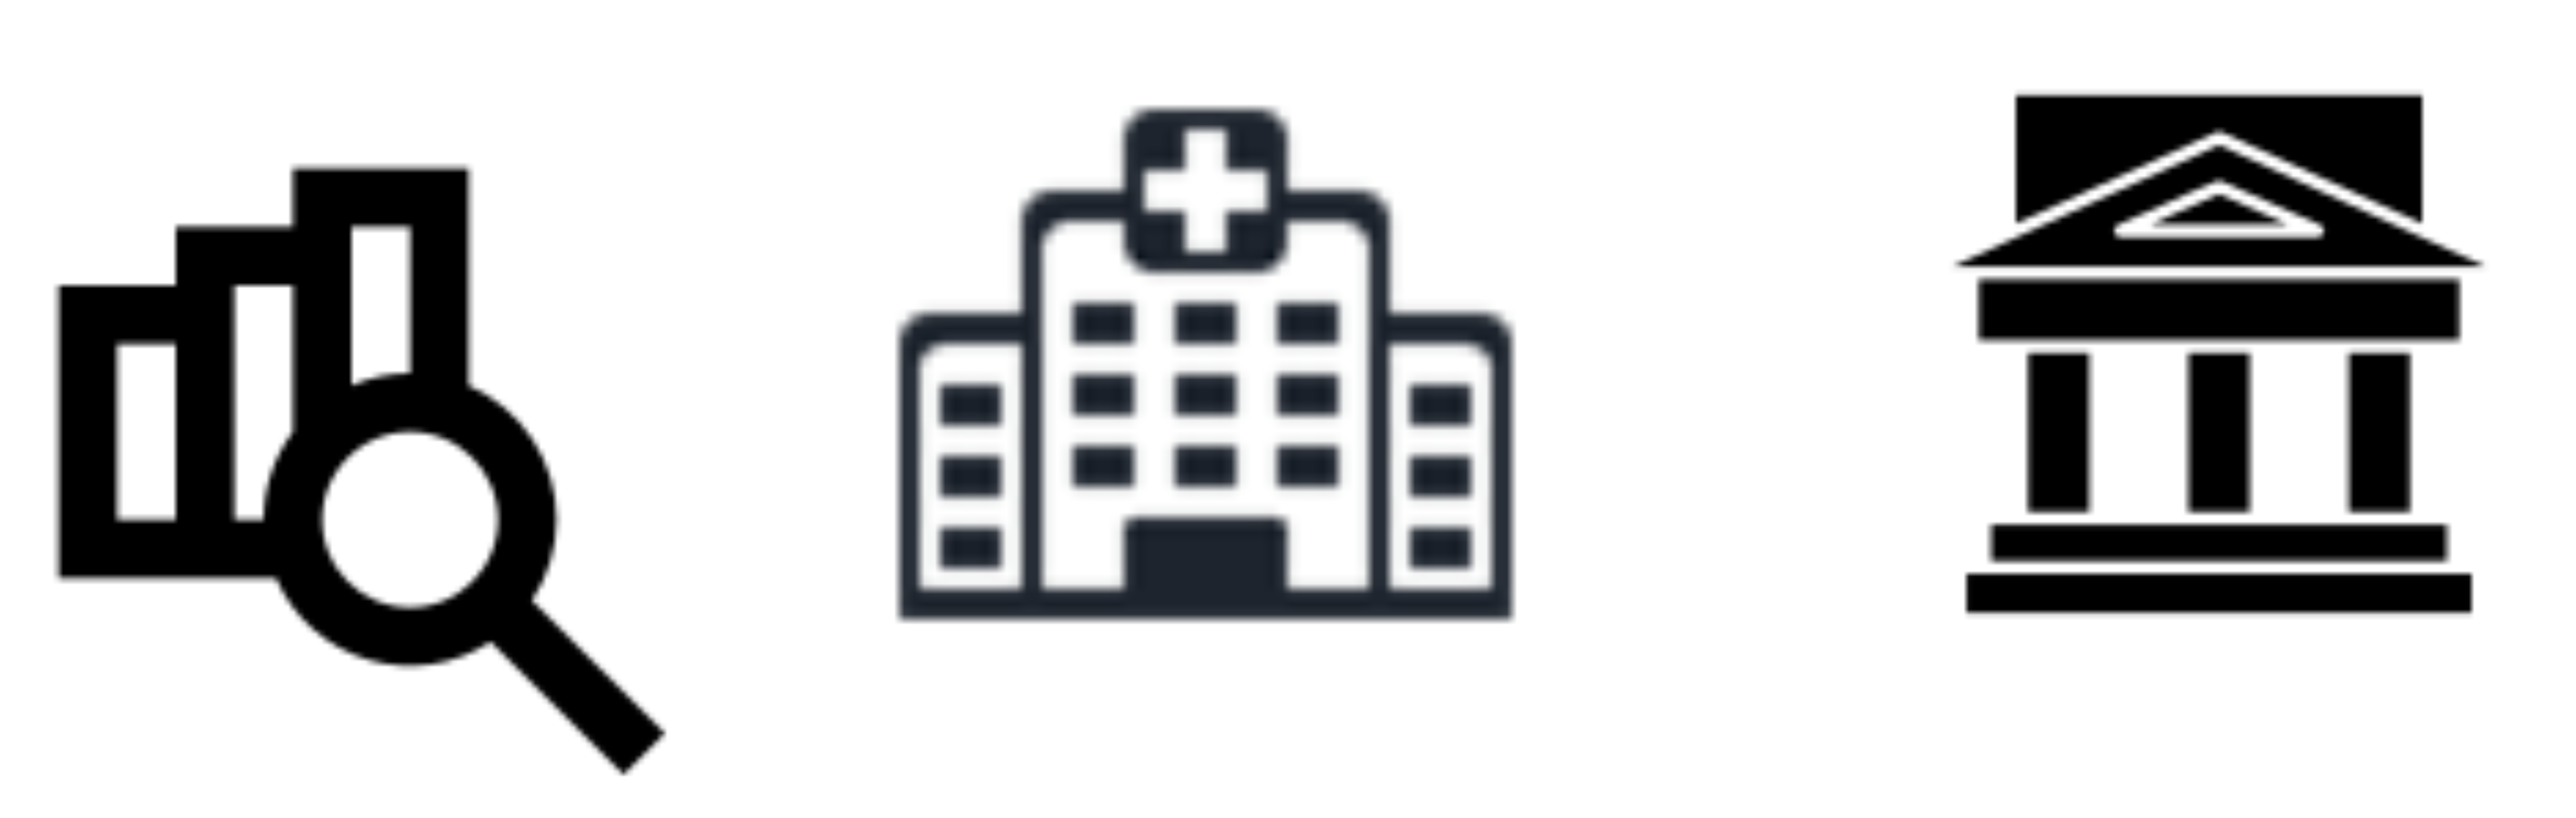
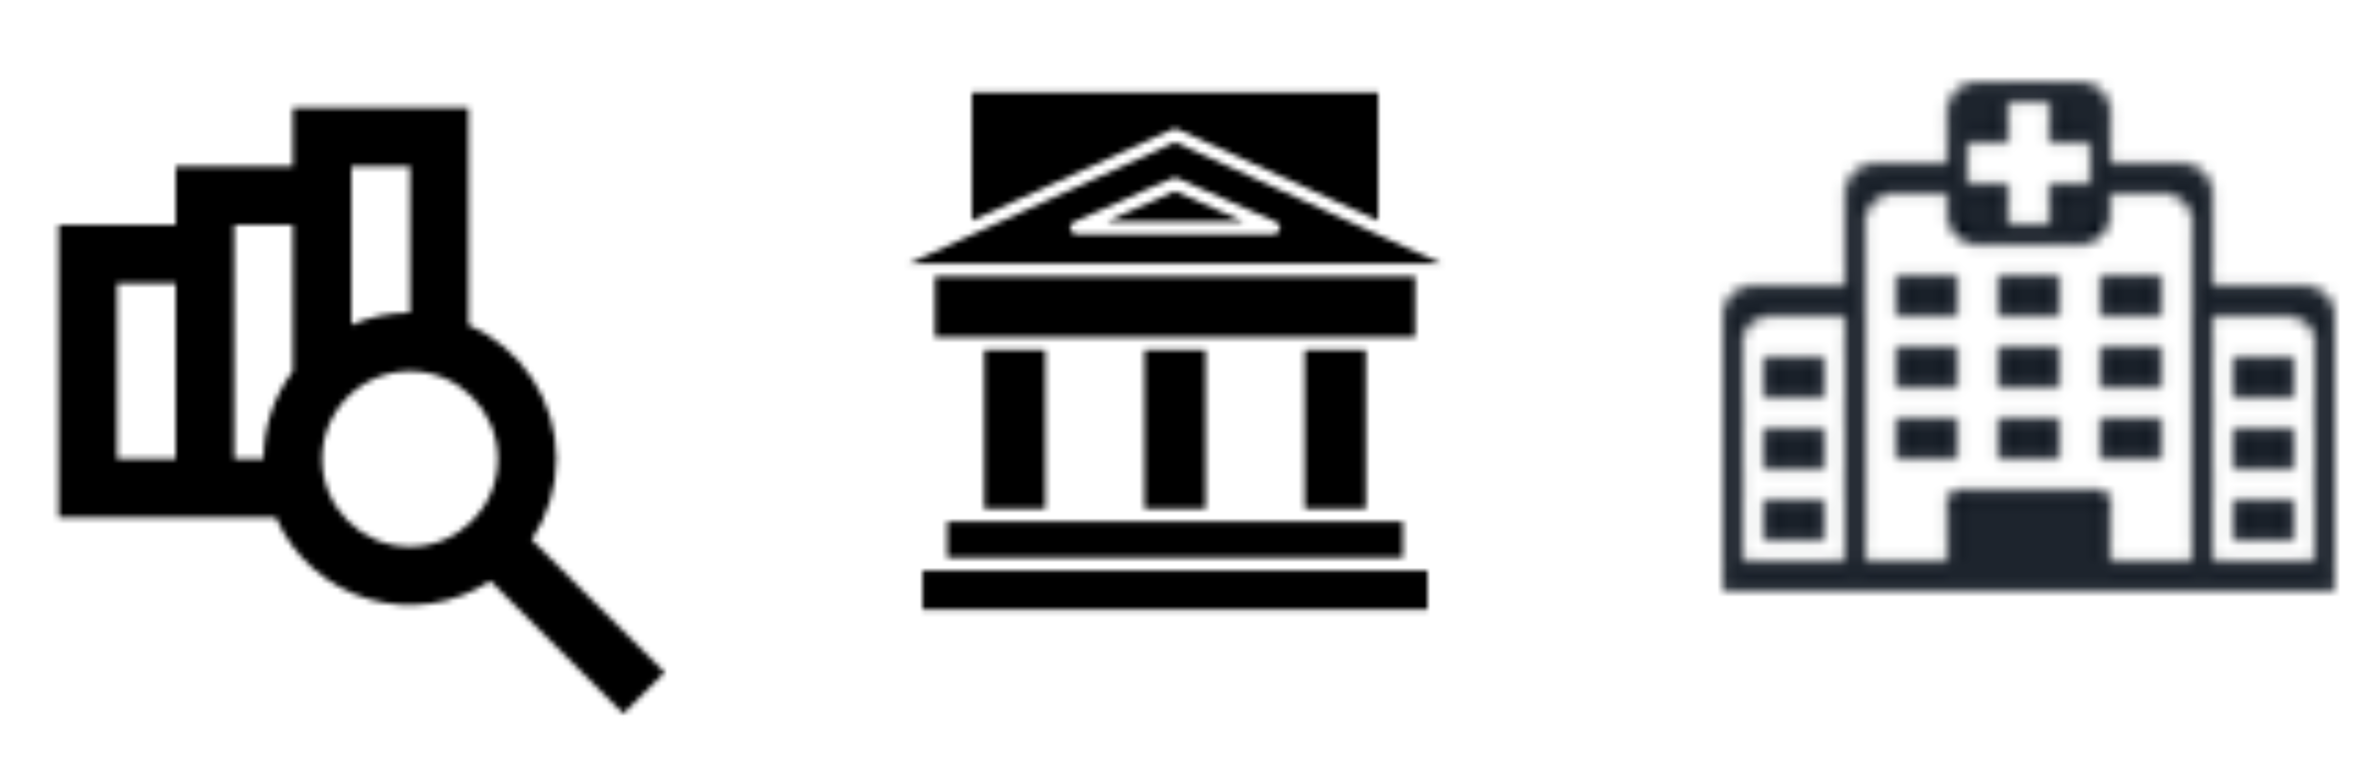
Update app

diff --git a/streamlit_app.py b/streamlit_app.py
@@ -1,8 +1,8 @@
 import streamlit as st
-from apps.app import MedicalVis
+from apps.medical_infrastructure_app import MedicalVis
 # Import here and call accordingly down below
 
-def display_graph(selection="Take me Home!"):
+def display_graph(selection="Introduction"):
 
     if "menu" in st.session_state:
         selection = st.session_state.menu
@@ -16,16 +16,22 @@ def display_graph(selection="Take me Home!"):
         MedicalVis()
 
     elif selection == "Introduction" or selection == "Select One":
-        st.write("Introduction")
+        text = "<h1 style='text-align: center; color: #7f32a8;'>COVID-19 Dashboard<h1>"
+        st.write(text, unsafe_allow_html=True)
 
 
 if __name__=="__main__":
-    st.sidebar.image("images/panel_black.png", use_column_width=True, output_format="PNG")
 
+    with st.sidebar:
+        text = "<h1 align='center'>Navigation Panel</h1>"
+        st.write(text, unsafe_allow_html=True)
+    st.sidebar.image("images/panel_black.png", use_column_width=True, output_format="PNG")
     selector = st.sidebar.selectbox(
-            "What Would You Like to Look at?",
-            ("Introduction", "Exploratory Data Analysis", "Medical Infrastructure", "Government Response"),
+            "What would you like to look at?",
+            ("Introduction", "Exploratory Data Analysis", "Government Response", "Medical Infrastructure"),
             on_change=display_graph(),
             # Initially load a page
             key="menu",
         )
+
+
